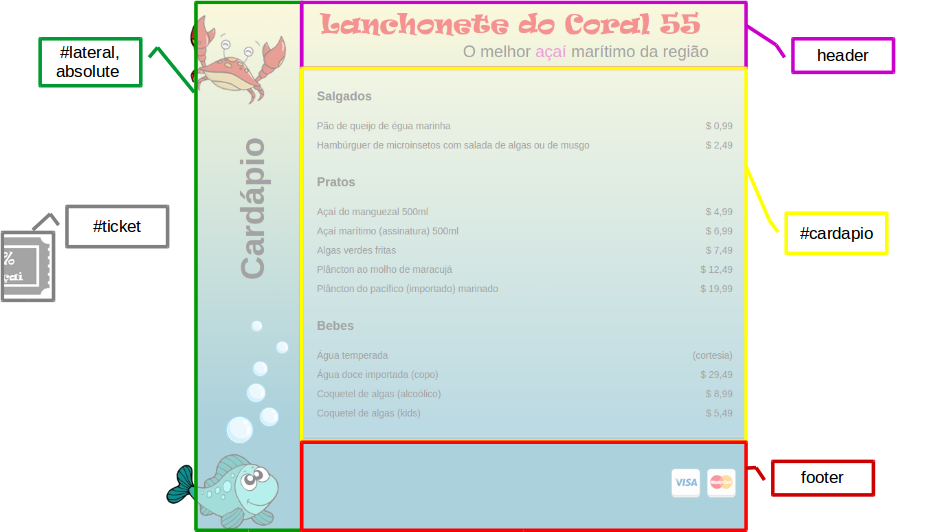
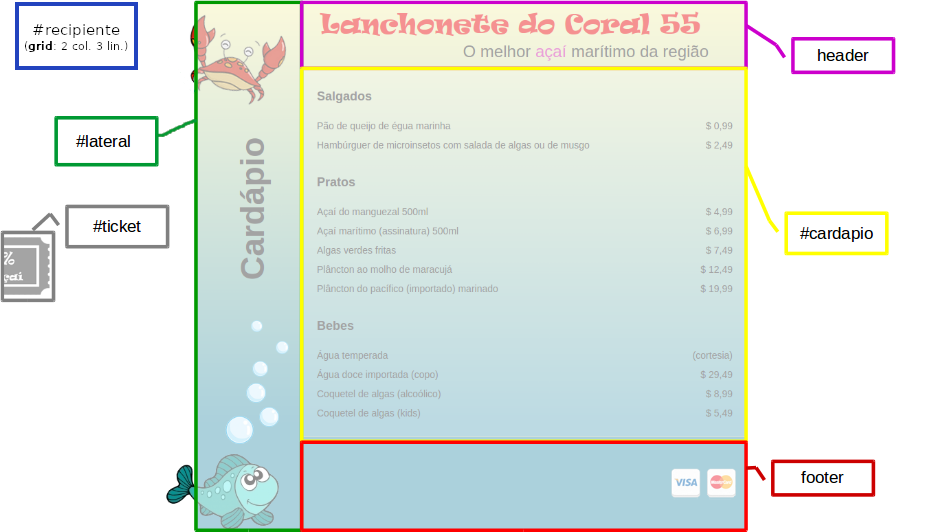
Improves css5 to use grid/flex instead of position

Changed region(s): [[0.0, 0.0, 0.1849, 0.1805], [0.0308, 0.2105, 0.2157, 0.3308], [0.1849, 0.1203, 0.2157, 0.1805]]

diff --git a/classes/css5/README.md b/classes/css5/README.md
@@ -4,20 +4,52 @@
 
 ---
 <!-- {"layout": "regular"} -->
-# Na última aula (1/2)
+# Na última aula (1/4)
 
 | position | Descrição | Exemplos de uso | top, right, bottom, left | z-index |
 |------------|-------------------------------------------------------------------|--------------------------------------------------------------------------------------------------------------|---------------------------------------|-----------------|
 | `static` | Fluxo normal | Elementos **sem posicionamento especial** | ignorados | ignorado |
-| `relative` | Fluxo normal, deslocado | Elementos que podem se **deslocar um pouco**; **contextos para elementos absolutos** | **deslocamentos** nas 4 direções | determina ordem |
+| `relative` | Fluxo normal, deslocado | Elementos que podem se **deslocar um pouco**; **contextos para elementos absolutos** | **deslocamentos** nas 4 direções | define ordem |
 
 ---
-# Na última aula  (2/2)
+<!-- {"layout": "regular"} -->
+# Na última aula  (2/4)
 
 | position | Descrição | Exemplos de uso | top, right, bottom, left | z-index |
 |------------|-------------------------------------------------------------------|--------------------------------------------------------------------------------------------------------------|---------------------------------------|-----------------|
-| `absolute` | Removido do fluxo, posicionado em um (x,y) relativo a um contexto | Elementos que queremos **determinar os valores (x,y)** para posicioná-los exatamente em algum lugar | **posições** referentes às 4 direções | determina ordem |
-| `fixed` | Removido do fluxo, em um (x,y) na janela | Idem, mas a **posição é fixa na janela** | **posições** para as 4 direções | determina ordem |
+| `absolute` | Removido do fluxo, posicionado (x,y) relativo a um contexto | Elementos que queremos **definir os valores (x,y)** para posicioná-los exatamente nesse lugar | **posições** referentes às 4 direções | define ordem |
+| `fixed` | Removido do fluxo, em um (x,y) na janela | Idem, mas a **posição é fixa na janela** | **posições** para as 4 direções | define ordem |
+
+---
+<!-- {"layout": "regular"} -->
+# Na última aula (3/4)
+
+- Propriedades do **Flexbox**: <!-- {ul^0:.full-width.no-margin} -->
+  - No elemento pai:  <!-- {ul^0:.layout-split-2} -->
+    - `display: flex` <!-- {li^1:style="flex: 1"} -->
+    - `flex-direction: row | column`
+    - `justify-content: flex-start | flex-end | center | space-around | space-between`
+  - Nos elementos filhos: <!-- {li^0:style="flex: 1"} -->
+    - `align-self: flex-start | flex-end | center`
+    - `order: numero`
+
+<iframe width="100%" height="300" src="//jsfiddle.net/fegemo/f5odrgk9/embedded/result,html,css/" allowfullscreen="allowfullscreen" allowpaymentrequest frameborder="0"></iframe>
+---
+<!-- {"layout": "regular"} -->
+# Na última aula (4/4)
+
+- Propriedades do **Grid**: <!-- {ul^0:.full-width.no-margin} -->
+  - No elemento pai: <!-- {ul^0:.layout-split-2} -->
+    - `display: grid` <!-- {li^1:style="flex: 1"} -->
+    - `grid-template-rows`
+    - `grid-template-columns`
+  - Nos elementos filhos: <!-- {li^0:style="flex: 1"} -->
+    - `grid-row-start: numero`
+    - `grid-row-end: numero`
+    - `grid-column-start: numero`
+    - `grid-column-end: numero`
+
+<iframe width="100%" height="300" src="//jsfiddle.net/fegemo/sqtdb95x/embedded/result,html,css/" allowfullscreen="allowfullscreen" allowpaymentrequest frameborder="0"></iframe>
 
 ---
 # Roteiro de hoje
@@ -59,9 +91,9 @@
 # Atividade de hoje
 
 1. O objetivo é treinar **_layout_ e posicionamento** em `CSS`
-   - `position` (`static`, `relative`, `absolute`, `fixed`), `float` etc.
+   - Usando Grid (`display: grid`) e Flexbox (`display: flex`)
    - O HTML está pronto, faltando o CSS da página
-1. O _layout_ que usamos no exercício dos Unicórnios se chama **fluido**. Hoje,
+1. O _layout_ que usamos no exercício dos Unicórnios se chama **fluido** (100% da largura). Hoje,
    você vai fazer um **_layout_ de largura fixa**
    - O conteúdo da página deve ter `800px` de largura e deve estar centralizado
 1. [Baixe os arquivos][coral-55-seminal]. Instruções detalhadas estão no
@@ -70,14 +102,21 @@
 [coral-55-seminal]: https://github.com/fegemo/cefet-front-end-coral-55/archive/master.zip
 
 ---
-## _Layout_ e posicionamento
+## _Layout_ de páginas
 
-- Em alguns _layouts_ podemos **usar elementos posicionados** de maneira
-  diferente do tradicional `static` quando:
-  1. Deseja-se posicionar um elemento em cima do outro
-  1. Deseja-se especificar coordenadas (x,y) de um elemento
-  1. Deseja-se que um elemento seja removido do fluxo (e não ocupe espaço)
-- Veja como está estruturado o HTML e como você pode estilizar as partes
+- Para definir o **_layout_** (posição das regiões da página), uma boa ideia
+  é usar **Grid** (`display: grid`)
+- Para definir o posicionamento dos **elementos que formam cada região**,
+  podemos usar **Flexbox** (`display: flex`) ou Grid (`display: grid`) também
+- Se precisarmos definir exatamente o (x,y) de um elemento, ou de
+  colocar um elemento em cima de outro, podemos usar `position`
+
+Observação: **antigamente** era comum usar `float` em alguns elementos para
+definirmos sua posição (como fizemos nos Unicórnios). Mas hoje em dia
+preferimos usar o Flexbox e o Grid, que foram criados para isso.
+<!-- {p:.nota} -->
+
+Veja como está estruturado o HTML e como você pode estilizar as partes
 
 ---
 <!-- {
@@ -90,16 +129,16 @@
 ```html
 <body>
   <div id="recipiente">
-    <header><!-- titulos --></header>
-    <main id="conteudo">
-      <section id="lateral">
-        <!-- siri, peixe, bolhas -->
-      </section>
-      <section id="cardapio">
-        <article><!-- ... --></article>
-        <article><!-- ... --></article>
-        <!-- mais itens do menu -->
-      </section>
+    <header id="cabecalho-pagina">
+      <!-- titulos -->
+    </header>
+    <section id="lateral">
+      <!-- siri, peixe, bolhas -->
+    </section>
+    <main id="cardapio">
+      <article><!-- ... --></article>
+      <article><!-- ... --></article>
+      <!-- mais itens do menu -->
     </main>
     <footer><!-- cartoes --></footer>
   </div>
